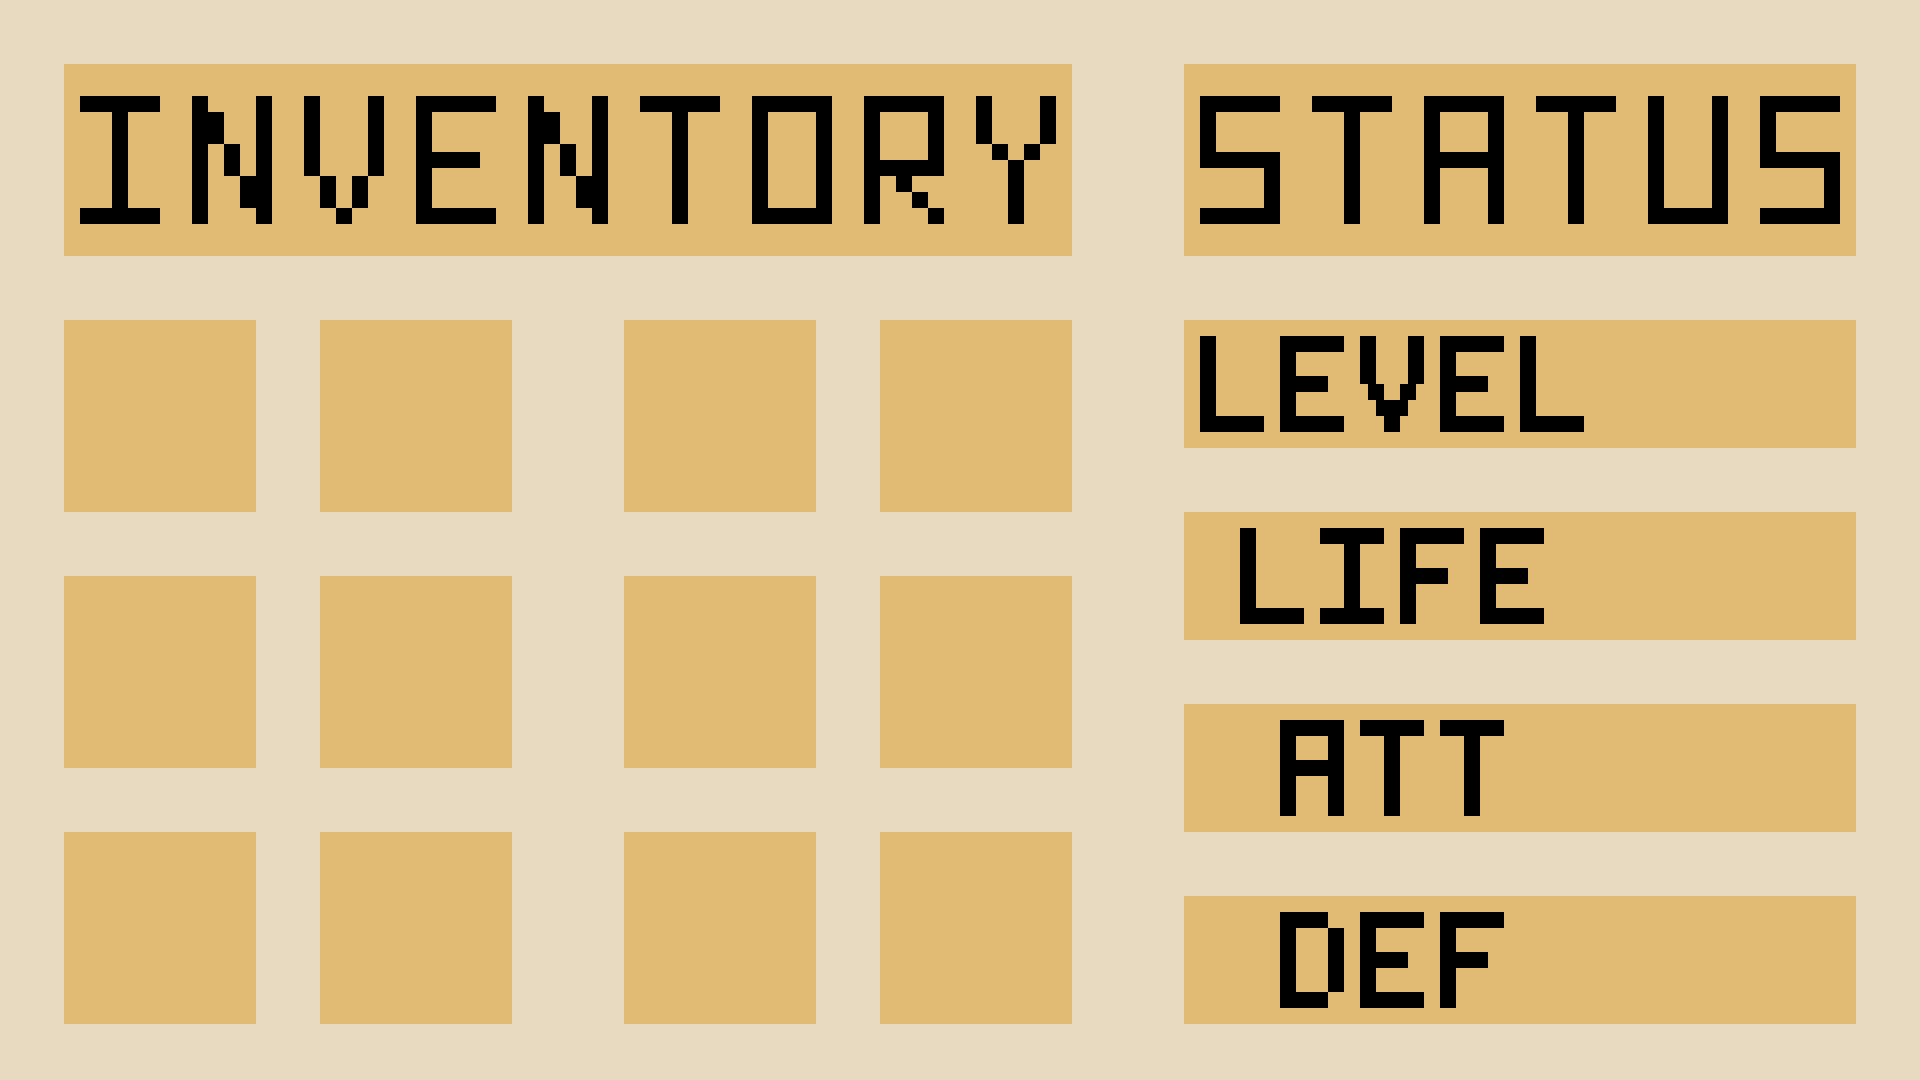
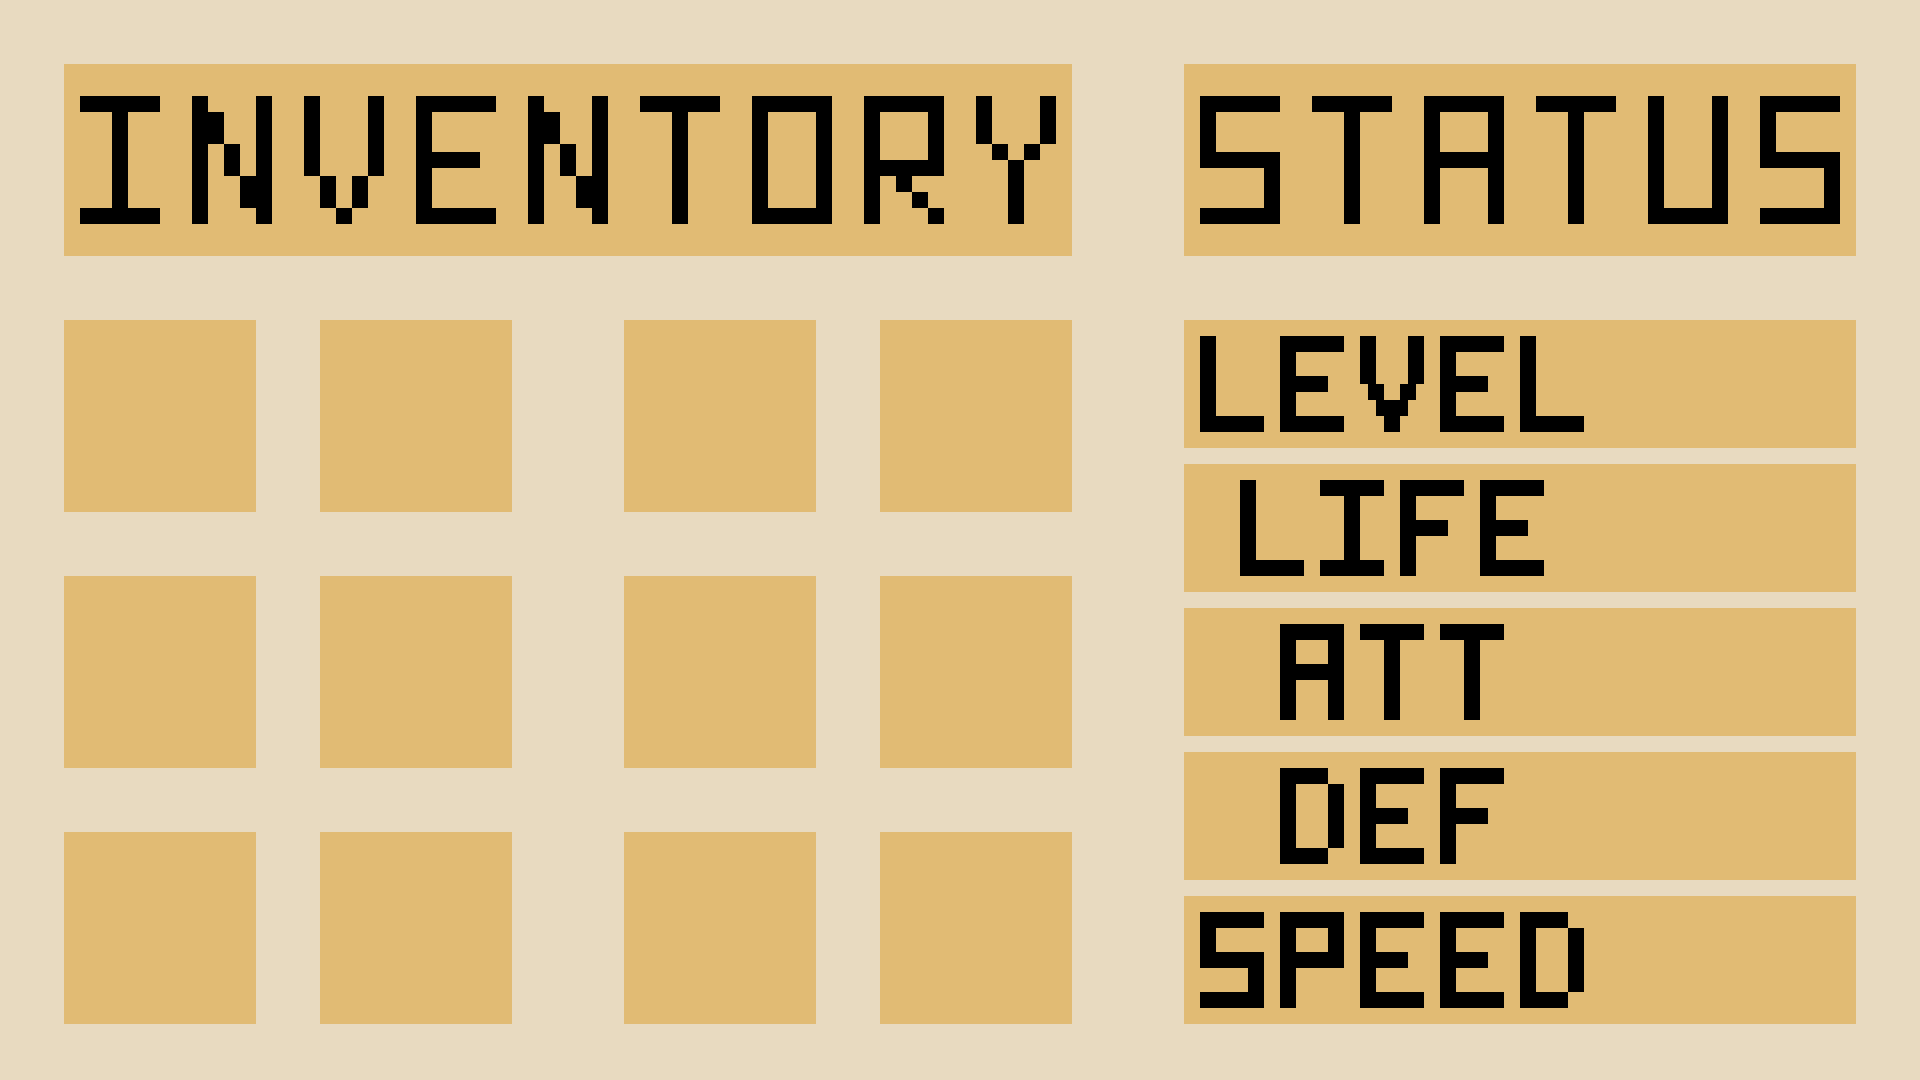
Fix enemy collision, add speed to status, and add setting button

Changed region(s): [[0.5938, 0.4278, 0.9688, 0.9472]]

diff --git a/src/scenes/game.c b/src/scenes/game.c
@@ -15,6 +15,8 @@ static sfBool check_collision_with_enemies(game_manager_t *gm)
     float diff_y = 0;
     
     for (size_t i = 0; i < 6; i++) {
+        if (enemies[i] == NULL)
+            continue;
         diff_x = player->pos.x - enemies[i]->pos.x;
         diff_y = player->pos.y - enemies[i]->pos.y;
         if (diff_x < 200 && diff_x > -200 &&
@@ -31,10 +33,14 @@ void game_func(game_manager_t *gm)
     anim_player(gm, scene->players[0]);
     move_all(gm, scene->players, scene->backgrounds[0]);
     handle_buttons(gm, scene);
-    if (my_strcmp(gm->key_pressed, "esc") == 0)
+    if (my_strcmp(gm->key_pressed, "esc") == 0) {
         gm->scene_id = PAUSE_ID;
-    if (my_strcmp(gm->key_pressed, "i") == 0)
+        return;
+    }
+    if (my_strcmp(gm->key_pressed, "i") == 0) {
         gm->scene_id = INV_STAT_ID;
+        return;
+    }
     if (check_collision_with_enemies(gm) == sfTrue)
         gm->scene_id = FIGHT_ID;
 }

diff --git a/src/scenes/inv_and_stat.c b/src/scenes/inv_and_stat.c
@@ -21,15 +21,18 @@ static void print_stats(player_t **players, scene_t *scene)
     char *life = my_put_nbr_in_str(players[0]->max_life);
     char *attack = my_put_nbr_in_str(players[0]->attack);
     char *defense = my_put_nbr_in_str(players[0]->defense);
+    char *speed = my_put_nbr_in_str(players[0]->fighter_info->speed);
 
     compare_and_replace(&scene->texts[0]->string, level);
     compare_and_replace(&scene->texts[1]->string, life);
     compare_and_replace(&scene->texts[2]->string, attack);
     compare_and_replace(&scene->texts[3]->string, defense);
+    compare_and_replace(&scene->texts[4]->string, speed);
     free(level);
     free(life);
     free(attack);
     free(defense);
+    free(speed);
 }
 
 void inventory_and_status_func(game_manager_t *gm)

diff --git a/src/create_texts/inv_and_stat_text.c b/src/create_texts/inv_and_stat_text.c
@@ -9,12 +9,12 @@
 
 text_t **inventory_and_status_text(void)
 {
-    text_t **texts = malloc(sizeof(text_t *) * 5);
+    text_t **texts = malloc(sizeof(text_t *) * 6);
 
-    for (size_t i = 0; i < 4; i++) {
+    for (size_t i = 0; i < 5; i++) {
         texts[i] = create_text("", 30, sfBlack,
-        (sfVector2f){1700, 345 + i * 193});
+        (sfVector2f){1700, 345 + i * 145});
     }
-    texts[4] = NULL;
+    texts[5] = NULL;
     return texts;
 }

diff --git a/src/create_enemies/game_enemy.c b/src/create_enemies/game_enemy.c
@@ -9,7 +9,7 @@
 
 enemy_t **game_enemy(void)
 {
-    enemy_t **enemies = malloc(sizeof(enemy_t *) * 6);
+    enemy_t **enemies = malloc(sizeof(enemy_t *) * 7);
 
     enemies[0] = NULL;
     enemies[1] = NULL;
